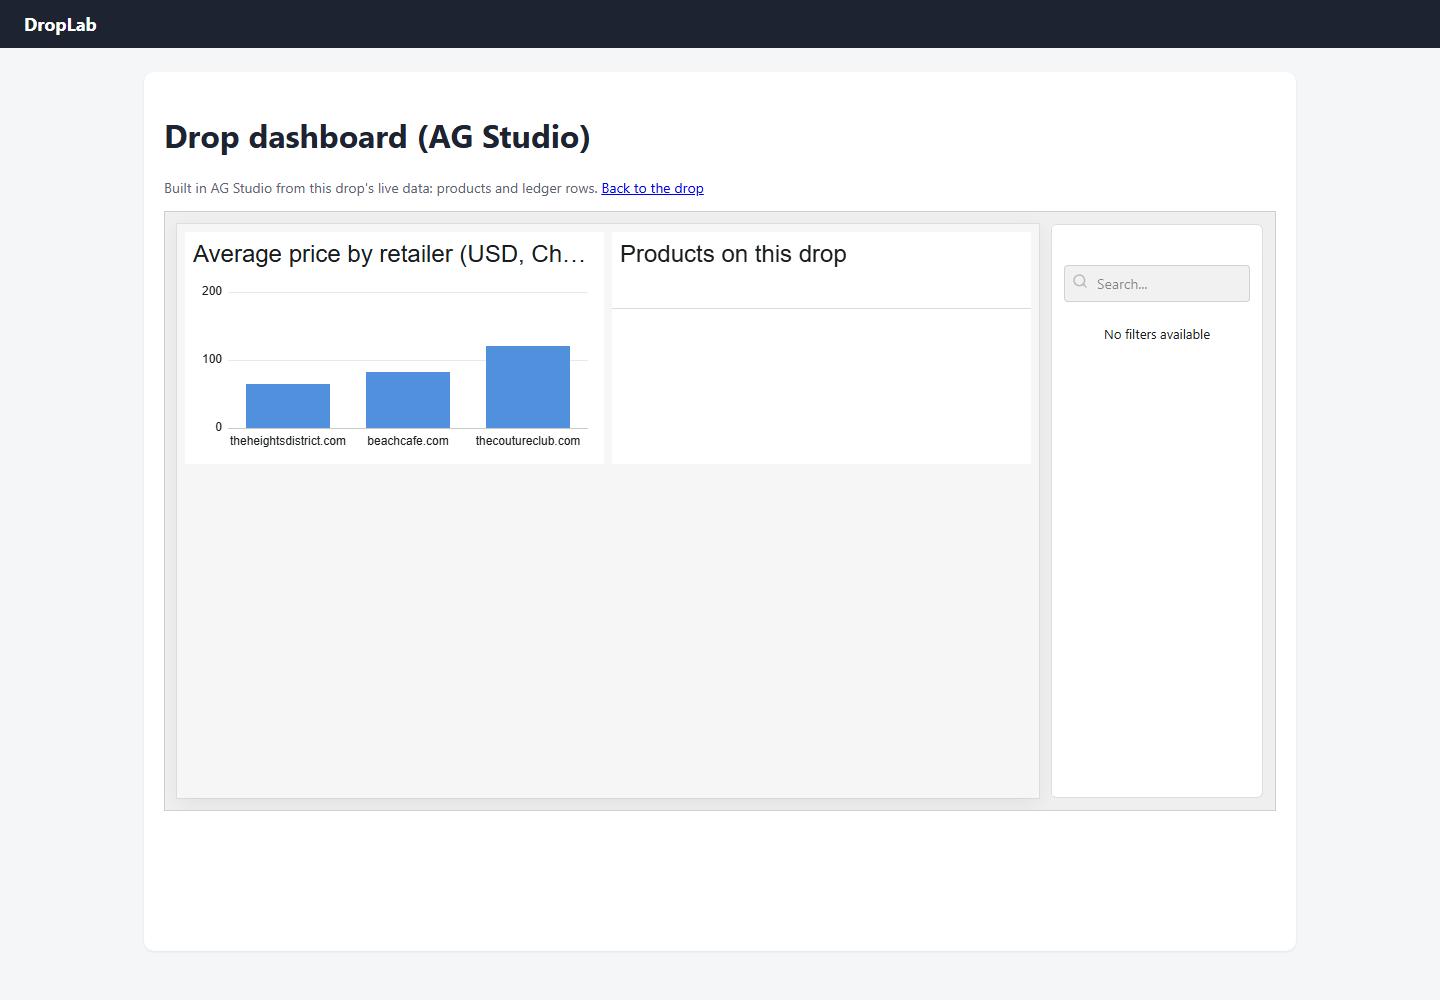
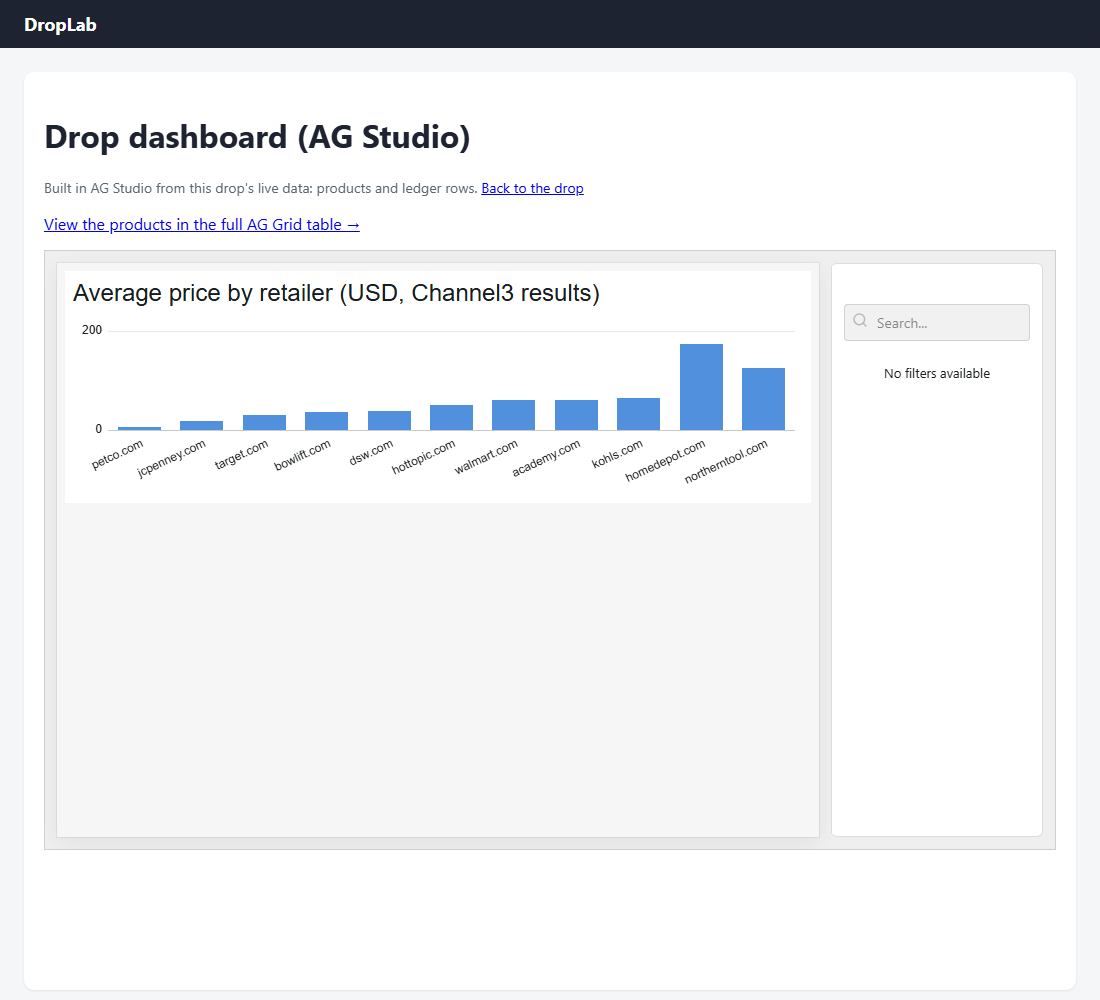
Cut the Studio products table; link Studio to the AG Grid product table
- Studio dashboard is chart-only (full-width price-by-retailer chart). The
  ag-studio 3.1.0 products grid widget rendered no rows in a real browser
  even on a minimal config, so it is removed. Investigation kept in
  docs/ag-grid-studio.md (attempt log, minimal repro for AG Grid support).
- Studio page links to the working AG Grid product table on the Drop page
  (#products anchor, scrolled into view).
- Video script no longer mentions hiding the Studio table.
- Screenshot ag-grid-studio.png replaced with the chart-only page.
- Add money-waterfall.png from a real sandbox capture and payout
  (batch 7K5GZL9K6GDK4, 70/20/10 of $7.00).

diff --git a/client/src/studio-dashboard.ts b/client/src/studio-dashboard.ts
@@ -4,9 +4,11 @@ import type { Product } from './api';
 // pages -> widgets / widgetLayout / layout). The schema exposes fields table-qualified, so every
 // field id is "<table>.<column>". Bare ids fail validation with "does not exist in the schema".
 //
+// Chart-only dashboard. The Studio products-table widget was cut: the grid widget in ag-studio 3.1.0 renders
+// no rows on a verified config (see docs/ag-grid-studio.md). The products are in the AG Grid table on the Drop page.
+//
 // Widgets:
-//  - "prices": grouped column chart, average price (USD) by retailer
-//  - "products": grid of the products on this drop with price and stock
+//  - "prices": grouped column chart, average price (USD) by retailer (full width)
 
 export const PRODUCTS_TABLE = 'products';
 
@@ -37,17 +39,9 @@ export function buildDashboardState() {
               valueKey: [{ ...f('price_usd'), aggregation: 'avg' }],
             },
           },
-          products: {
-            type: 'grid',
-            format: { title: { text: 'Products on this drop', enabled: true } },
-            dataMapping: {
-              cols: [f('product'), f('retailer'), f('price_usd'), f('stock')],
-            },
-          },
         },
         widgetLayout: {
-          prices: { xTrack: 0, yTrack: 0, xSpan: 6, ySpan: 6 },
-          products: { xTrack: 6, yTrack: 0, xSpan: 6, ySpan: 6 },
+          prices: { xTrack: 0, yTrack: 0, xSpan: 12, ySpan: 6 },
         },
         layout: { type: 'widget' as const, columns: 12, rowHeight: 40 },
       },

diff --git a/client/src/pages/DropPage.tsx b/client/src/pages/DropPage.tsx
@@ -67,6 +67,11 @@ export default function DropPage() {
     refreshLedger().catch(() => undefined);
   }, [id, refreshLedger]);
 
+  // Links to #products (from the Studio page) scroll to the table once the drop has loaded.
+  useEffect(() => {
+    if (drop && window.location.hash === '#products') document.getElementById('products')?.scrollIntoView({ block: 'start' });
+  }, [drop]);
+
   // W-4 ticker: poll every 5 seconds while the tab is visible. Only changed data is set, so a poll with no
   // change re-renders nothing, and the Gantt is patched in place (not rebuilt) when a milestone or hold changes.
   const refreshAll = useCallback(async () => {
@@ -427,7 +432,7 @@ export default function DropPage() {
         <Negotiation dropId={id} items={items} />
       </div>
 
-      <div className="card">
+      <div className="card" id="products">
         <h2>Pick products</h2>
         <p className="muted">Select rows to add them to the pre-order.</p>
         <SearchSets products={products} />

diff --git a/client/src/pages/StudioPage.tsx b/client/src/pages/StudioPage.tsx
@@ -71,6 +71,9 @@ export default function StudioPage() {
       <p className="muted">
         Built in AG Studio from this drop&apos;s live data: products and ledger rows. <Link to={`/drop/${id}`}>Back to the drop</Link>
       </p>
+      <p>
+        <Link to={`/drop/${id}#products`}>View the products in the full AG Grid table →</Link>
+      </p>
       <div style={{ height: 720, width: '100%' }}>
         <AgStudio data={data} mode={mode} initialState={initialState as any} />
       </div>

diff --git a/docs/ag-grid-studio.md b/docs/ag-grid-studio.md
@@ -47,5 +47,62 @@ If the trial needs a licence key, store it in `.env` as `AG_GRID_LICENSE_KEY` (o
 - **Pre-built dashboard (view mode):** `/drop/:id/studio` opens a pre-built page (`client/src/studio-dashboard.ts`) instead of an empty canvas. It has a column chart of average USD price by retailer, and a products table with product, retailer, price and stock. Add `?mode=edit` to open the Studio editor on the same state.
 - **Field ids:** the schema exposes fields table-qualified (`products.retailer`). Bare ids such as `retailer` fail validation with "does not exist in the schema", which is what caused the earlier "Invalid configuration" boxes. The state is validated in the console on load.
 - **Verified:** the console shows no validation warnings, and the bar chart renders real Channel3 retailers. Screenshot: `docs/screenshots/ag-grid-studio.png`.
-- **Not verified:** the products table has no rows in the headless capture (the grid shows no header or rows in view or edit mode, although its mapping matches the typings). Treat the table as unfinished until it renders rows in a real browser.
+- **CUT (2026-11-08):** the pre-built products-table widget was removed from the dashboard. The grid widget in ag-studio 3.1.0 renders no header and no rows even on static data with a minimal config that passes validation (attempt log H-1–H-4 below). The config matches the official docs' grid examples, so this is not a mapping problem. The dashboard is now chart-only. The same products are shown in the working AG Grid product table on the Drop page (`/drop/:id#products`), linked from the Studio page. The minimal repro below is kept for AG Grid support.
 - **Not in the data:** costs and margins. The data has only prices, stock and ledger amounts, so Studio charts only those.
+
+## Real-browser verification (2026-11-08): NOT PASSING
+
+Item checked: does the pre-built products table render rows in a real browser? **It does not.**
+
+- **Browser:** the in-app browser pane (a rendered browser, visible to the user), viewport 1400×900, on `/drop/e55d85c5-0c61-44a9-aeb4-f4c852ddbc7d/studio`.
+- **Observed by eye:** the column chart "Average price by retailer" renders bars for eight retailers. The "Products on this drop" widget next to it is empty: no header, no rows, no cells. The DOM agrees (0 `.ag-row`, 0 header cells).
+- **Console:** on the last load, the console showed no AG Studio validation warnings. The earlier validation failures (bare field ids) are fixed, and the current mapping is `products.product`, `products.retailer`, `products.price_usd`, `products.stock`.
+- **Tried, did not fix it:** adding a unique `primaryKeyField` (`product_id`, the Channel3 id) to the `products` data source. The table stayed empty, so the change was reverted.
+- **Not tried yet:** setting explicit `fields` with types on the data source, and checking the Studio grid widget's own examples in the AG Studio docs.
+
+### User steps to verify in your own browser
+
+1. Start the app (see README "Run locally"), then open `http://localhost:5173/drop/<drop-id>/studio` for a drop that has products. The seeded demo drop works.
+2. Look at the right-hand widget, "Products on this drop".
+3. **Pass:** a header row (Product, Retailer, Price_usd, Stock) and one row per product with real titles, retailer names, prices and stock.
+4. **Fail (current state):** the widget is empty, or shows "Invalid configuration".
+5. Open the browser developer console and copy any lines starting with `AG Studio` (or any `warn`/`error`). Record them here, or write "none".
+
+Until step 3 passes, keep the caveat above, and do not show this widget in the demo video.
+
+## Attempt log: products grid widget (2026-11-08, follow-up run)
+
+Result: **NOT FIXED.** The grid widget renders no header and no rows in the real in-app browser, in every configuration tried. The chart widgets render. The "Not verified" caveat stays.
+
+Sources checked (installed `ag-studio` 3.1.0 typings, and the public docs):
+- `client/node_modules/ag-studio/dist/types/api/widgets/agGridWidget.d.ts` lines 57–62 (`dataMapping: { cols }`), line 87 (`type: 'grid'`). The typings' doc example uses bare ids (`{ id: 'product' }`).
+- `api/agFieldDefinition.d.ts` line 40–42: a field has `format: TFormat`. `api/agDataSource.d.ts`: a simple source takes an optional `fields` array; without it, fields come from the data.
+- `api/agFormats.d.ts` lines 27 and 33: `decimalFormat` (number), `textFormat` (string).
+- `node_modules/ag-studio/README.md` (setup): `sources: [{ id, data: [...] }]` and `createStudio(el, { data, mode })`. The README has no grid widget example.
+- Docs https://ag-grid.com/studio/react/data/ : columns are referenced as `table.field`; fields are inferred from row keys. The docs' grid example page could not be read from this environment, so H-1's verbatim reproduction is **not done**. The control below uses the README's sample data and the typings' grid shape instead.
+- Docs https://www.ag-grid.com/studio/javascript/data-types/ : `{ id, format: 'textFormat' }` and `'decimalFormat'`.
+
+| # | Hypothesis | Change | Result | Kept or reverted |
+|---|---|---|---|---|
+| H-1 | Control: the grid renders on the README's own sample data (`products` with `product_name`, `category`, `brand`, `list_price`, `unit_cost`) | Temporary page with two grid widgets: bare ids (`product_name`) and table-qualified ids (`products.product_name`) | Bare ids: "Field with id 'product_name' does not exist in the schema" (console error, "Invalid configuration" box). Qualified ids: no validation error, but no header and no rows. | Control page removed after the test |
+| H-2 | Explicit `fields` with formats (`textFormat` for text, `decimalFormat` for prices) fix the grid | Added `fields` to the control source only (not to the drop page) | No change: qualified grid still empty, no header, no rows. Observed `stock` values: not checked on the control. | Reverted (control page removed) |
+| H-3 | The grid snapshots empty data because state is built before data loads | None needed as a separate test: the control page has its data at mount, with no async load, and still renders no rows. | Hypothesis unlikely. The drop page's `initialState` holds widget config only, not data, so the timing is not the cause. | Not changed |
+| H-4 | The grid widget expects a different `dataMapping` key | None found: the typings define only `cols` for `type: 'grid'`. | No alternative key to try. | Not changed |
+
+Other checks made in this run:
+- The AG Grid tables elsewhere in the app (product grid, ledger grid) render rows in the same browser. So AG Grid itself works in this page.
+- The Studio grid widget DOM has the outer grid shell but no header cells and no row container.
+- The `ag-studio` 3.1.0 dependency on `ag-grid-enterprise` ~36.3.0 matches the installed 36.3.0.
+
+### Remaining unknowns
+
+- Why the Studio grid widget builds no columns, even on static data and a minimal config that passes validation.
+- Whether the Studio grid needs a licence or feature that the trial key does not provide. This is a guess: the chart renders under the same key.
+- Whether the docs' own React grid example renders in this environment. Not verified, because the example page could not be read.
+
+### Minimal repro
+
+1. `ag-studio-react` 3.1.0 `<AgStudio data={{ sources: [{ id: 'products', data: [{ product_name: 'Printer', brand: 'CleanSlate', list_price: 109.09 }] }] }} mode="view" initialState={{ selectedPageId: 'p1', pages: [{ id: 'p1', widgets: { g: { type: 'grid', dataMapping: { cols: [{ id: 'products.product_name' }, { id: 'products.list_price' }] } } }, widgetLayout: { g: { xTrack: 0, yTrack: 0, xSpan: 6, ySpan: 6 } }, layout: { type: 'widget', columns: 12, rowHeight: 40 } }] }} />`
+2. Open the page in a real browser. The grid widget shows no header and no rows.
+
+Until the products table renders rows in a real browser, keep this caveat, and do not show the widget in the demo video.

diff --git a/devpost/video-script.md b/devpost/video-script.md
@@ -41,7 +41,7 @@ Only show a price move if it happened for real. If no live Channel3 move has bee
 ## Notes for recording
 
 - Use the live Render URL once deployed. Until then, record on localhost and say so.
-- Do not show the AG Studio products table until it renders rows. The Studio page is pre-built (view mode) and its chart is live.
+- The Studio page is pre-built (view mode) and its chart is live. The products table was cut from the Studio dashboard (the ag-studio 3.1.0 grid widget renders no rows), so show the chart, then the link to the working AG Grid product table on the Drop page.
 - The AG Grid AI Toolkit is installed but not shown in the video.
 - Do not show the price-move fixture as a live Channel3 move. No real Channel3 move has been observed.
 - The AG Grid trial key expires on 8 December 2026. Keep it valid until recording.
